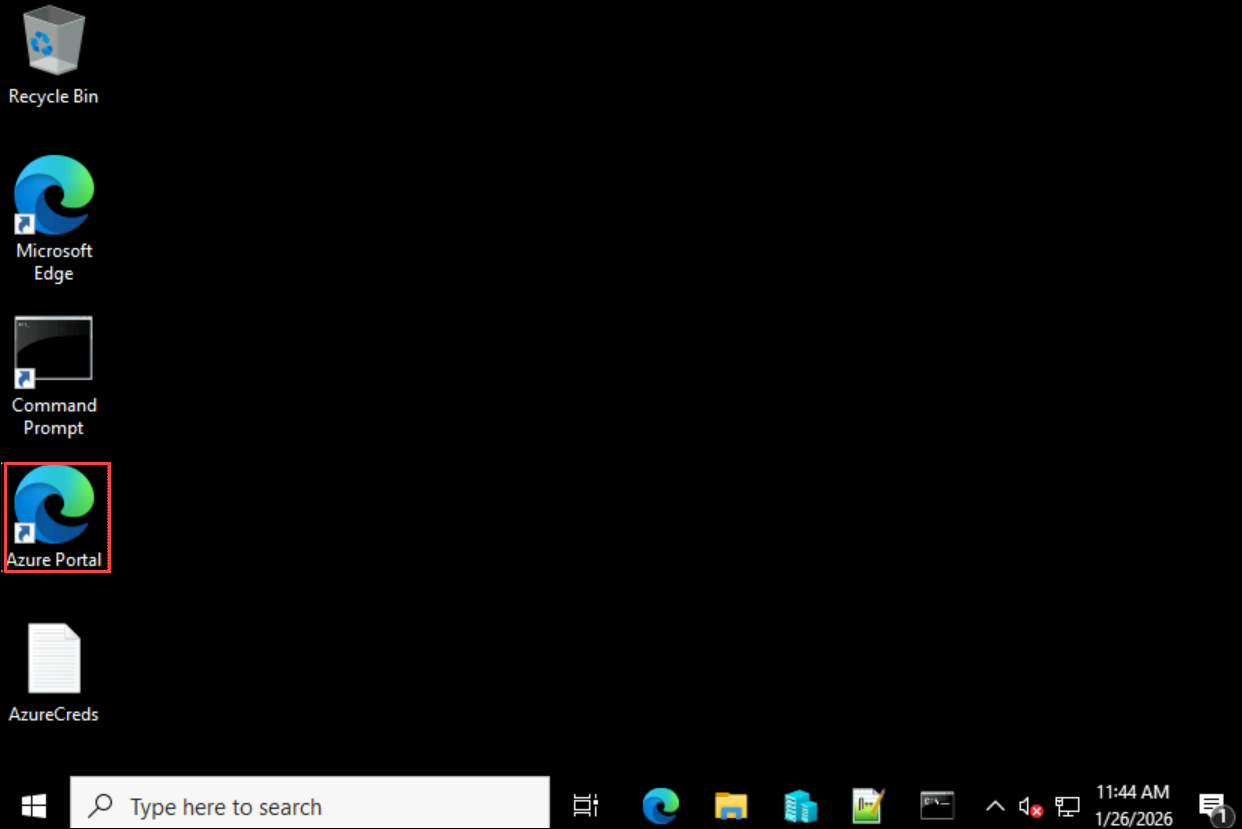
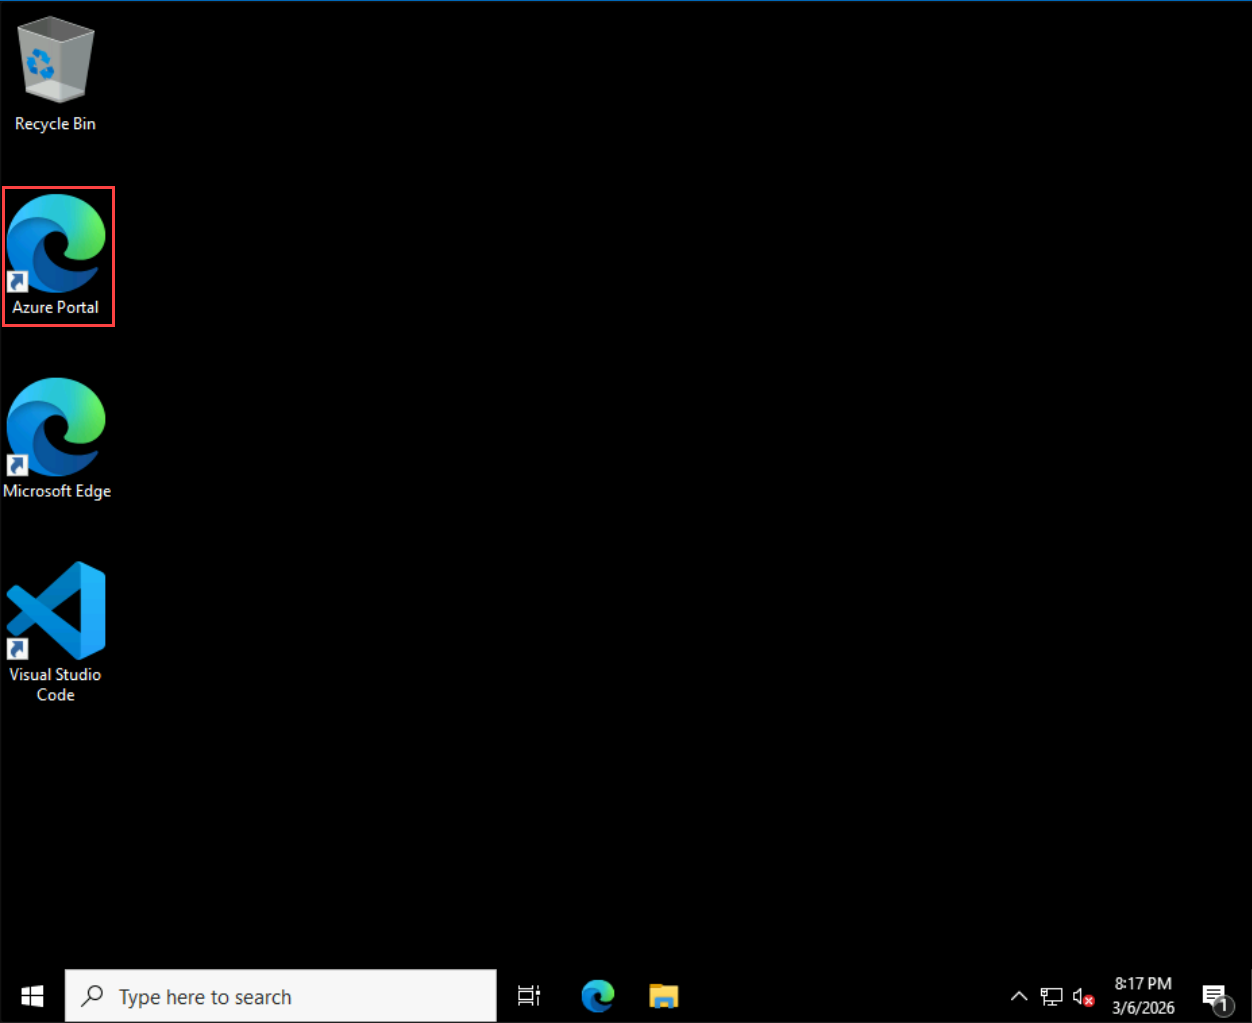
updates

diff --git a/Labs/use-your-own-data-custom.md b/Labs/use-your-own-data-custom.md
@@ -8,11 +8,11 @@ Retrieval Augmented Generation (RAG) is a design pattern that enables AI develop
 
 ## Lab Objectives
 
-    - Task 1: Provision Microsoft Foundry Hub and Project
-    - Task 2: Deploy a Model
-    - Task 3: Use Prompt Engineering in the Playground
-    - Task 4: Create a RAG application
-    - Task 5: Run the RAG application
+- Task 1: Provision Microsoft Foundry Hub and Project
+- Task 2: Deploy a Model
+- Task 3: Use Prompt Engineering in the Playground
+- Task 4: Create a RAG application
+- Task 5: Run the RAG application
 
 ## Task 1: Provision Microsoft Foundry Hub and Project
 
@@ -55,8 +55,7 @@ To use the Foundry features in this task, you must first create a project that i
     - **Foundry or Azure OpenAI**: Click on **Create new Foundry (5)**, provide name as **aifoundry-<inject key="DeploymentID" enableCopy="false" /> (6)** and click on **ok(7)**
     - Click on **Create (8)**
 
-    ![](./media/T1S7.png)
-
+     ![](./media/T1S7.png)
 
 1. Now lets wait for your project to be created.
 
@@ -72,8 +71,7 @@ In this task, you will configure two models within your Azure Foundry project to
 
 1. In **aiproject- <inject key="DeploymentID" enableCopy="false" />** inside the **Micrsoft Foundry**, select **Model catalog** from the navigation pane on the left.
 
-    ![](./media/T2S1.png)
-
+     ![](./media/T2S1.png)
 
 1. On the filter panel, select the **Collections (1)** and check the box fror **Azure OpenAI (2)** to filter by Azure OpenAI collections only.
 
@@ -186,15 +184,21 @@ Before using your index in a RAG-based prompt flow, let’s verify that it can b
 
 In this task, you will add data to your Azure Foundry project to support your generative AI application. The dataset consists of travel brochures in PDF format from the fictitious travel agency Margie’s Travel. You will upload these documents to the project so they can be indexed and used as a custom data source. This step ensures that the AI solution can retrieve relevant information from the brochures and generate accurate, context-aware responses based on their content.
 
-1. Open **File Explorer 📁 (1)** from the **Start** menu and navigate to `C:\labfiles`. 
+1. Open **File Explorer 📁 (1)** which is pinned to the task bar and Navigate to `C:\labfiles`. 
 
-1. Create a new folder **📁New Folder (1)** and name it as **brochures (2)**.
+    ![](./media/T3S1.png)
+
+1. Navigate to **`C:\labfiles` (1)**. Create a new folder **📁New Folder (2)** and name it as **brochures (3)**.
+
+    ![](./media/T3S2.png)
 
 1. In a new browser tab, download the zipped archive of brochures on to the **LabVM**.
     ```
     https://github.com/MicrosoftLearning/mslearn-ai-studio/raw/main/data/brochures.zip 
     ```
-1. Open downloaded folder location **📁(1)**.Extract it to a folder named **brochures** on LabVM i.e,`C:\labfiles`.
+1. Open downloaded folder location **📁(1)**.Extract it to a folder named **brochures** on LabVM i.e,`C:\labfiles\brochures` **(2)** then **extract (3)**.
+
+    ![](./media/T3S4.png)
 
 1. Navigate back to the Foundry portal, on the Chat Playground wizard in **Add your data (1)** section click on **+Add new data source (2)**.
 
@@ -211,7 +215,7 @@ In this task, you will add data to your Azure Foundry project to support your ge
 
         - On the File explorer dialogue, Select the all the files from **`brochures`** folder as data source.
 
-            ![](./media/.png)
+            ![](./media/T3S6i.png)
 
         - Click on **`Next`**.
 
@@ -285,16 +289,19 @@ In this task, you will add data to your Azure Foundry project to support your ge
 
     > **Note**: The Microsoft Foundry SDK handles authentication and endpoint routing automatically when you use AIProjectClient.get_openai_client(). Make a note of this endpoint.
 
-1. Open Visual Studio Code on your local computer. 
+1. Open **Visual Studio Code** that is located on the Desktop. 
 
-1. Open a terminal in VS Code (Terminal > New Terminal) and clone the GitHub repo containing the code files for this exercise:
+1. Open a **Terminal (1)** in VS Code then click on **New Terminal(2)** and clone the GitHub repo containing the code files for this exercise:
 
     ```
+    cd C:\labfiles
     git clone https://github.com/microsoftlearning/mslearn-ai-studio mslearn-ai-foundry
     ```
-1. After the repo has been cloned, open the folder in VS Code (File > Open Folder), and navigate to the mslearn-ai-foundry/labfiles/foundry-rag/python folder.
+    > **Note**: If the Terminal option is not visible click on **(...)**.
 
-1. In the VS Code Explorer pane, review the files in the folder:
+1. After the repo has been cloned, Click on **Explorer (1)** then **open the folder (2)** in VS Code, and navigate to the **`C:\labfiles` (3)** then select the folder **mslearn-ai-foundry` (4)**.
+
+1. In the VS Code Explorer pane, navigate to **labfiles (1) > foundry-rag (2)** and review the files in the folder:
 
     - `.env` - A configuration file for application settings.
     - `rag-app.py` - The Python code file for the RAG application.
@@ -315,7 +322,7 @@ In this task, you will add data to your Azure Foundry project to support your ge
 
     ```
     pip install -r requirements.txt
-    ``
+    ```
 1. In VS Code, open the **`.env`** file, replace the placeholders and then Save the **`.env`** file.:
 
     - Replace your_foundry_endpoint with the Foundry endpoint you copied from the project overview page.
